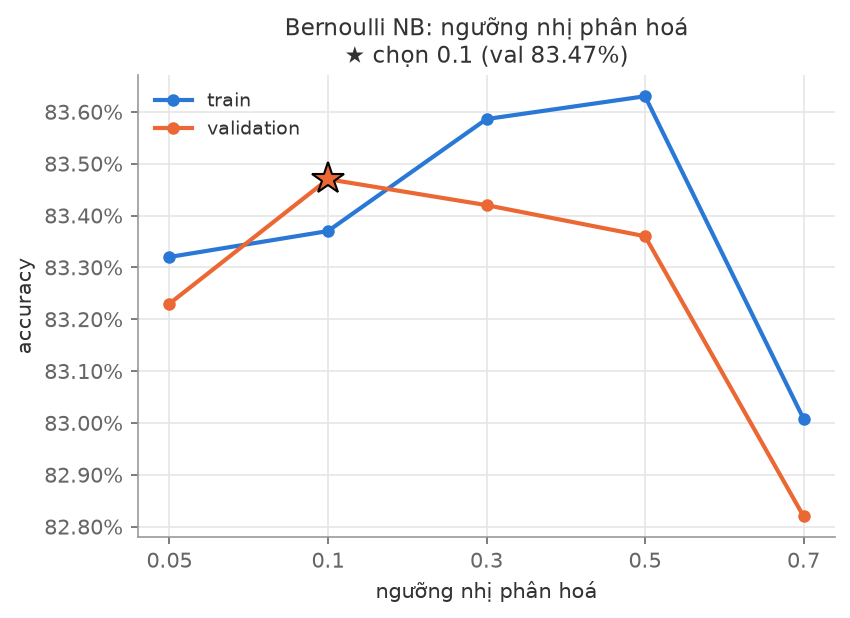
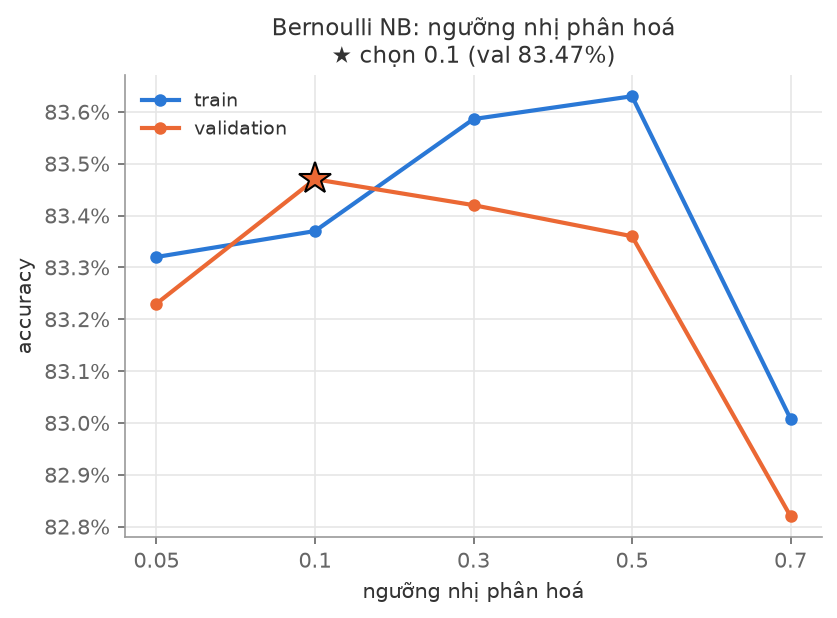
exp: thin log-scale tick labels and move epoch marker note into legend

diff --git a/src/plotting.py b/src/plotting.py
@@ -18,13 +18,16 @@ import os
 import matplotlib.pyplot as plt
 import numpy as np
 from matplotlib.colors import LinearSegmentedColormap
-from matplotlib.ticker import PercentFormatter
+from matplotlib.ticker import FuncFormatter, LogLocator, NullFormatter, PercentFormatter
 
 FIGURES_DIR = "results/figures"
 FIGSIZE = (6, 4)
 DPI = 150
 TRAIN_COLOR = "#2a78d6"  # xanh dương
 VAL_COLOR = "#eb6834"  # cam
+# Màu cho các đường không phải mô hình (cấu hình, hàm kích hoạt...), dùng theo thứ tự.
+# Tối đa 3 đường một hình: 3 màu này tách biệt từng đôi một, kể cả với người mù màu.
+LINE_COLORS = ["#2a78d6", "#eb6834", "#1baf7a"]
 INK = "#333333"  # màu chữ: xám đậm, đỡ gắt hơn đen tuyền
 # Thang một tông xanh, trắng -> xanh đậm, cho ma trận nhầm lẫn
 SEQUENTIAL_CMAP = LinearSegmentedColormap.from_list(
@@ -119,7 +122,7 @@ def plot_sweep(df, model_name, param_name, filename):
     )
     ax.set_xlabel(PARAM_LABELS.get(param_name, param_name))
     ax.set_ylabel("accuracy")
-    ax.yaxis.set_major_formatter(PercentFormatter(1.0))
+    ax.yaxis.set_major_formatter(PercentFormatter(1.0, decimals=1))
     ax.set_title(
         f"{MODEL_LABELS.get(model_name, model_name)}: {PARAM_LABELS.get(param_name, param_name)}\n"
         f"★ chọn {labels[best]} (val {best_val:.2%})",
@@ -173,7 +176,7 @@ def plot_model_comparison(test_df, filename):
     for i, value in enumerate(test_df["accuracy_mean"]):
         ax_acc.text(value + 0.003, i, f"{value:.2%}", va="center", fontsize=9)
     ax_acc.set_xlim(test_df["accuracy_mean"].min() - 0.05, 1.03)
-    ax_acc.xaxis.set_major_formatter(PercentFormatter(1.0))
+    ax_acc.xaxis.set_major_formatter(PercentFormatter(1.0, decimals=1))
     ax_acc.set_xlabel("test accuracy")
 
     ax_time.barh(y, test_df["fit_time_s_mean"], color=colors)
@@ -188,4 +191,91 @@ def plot_model_comparison(test_df, filename):
     for ax in (ax_acc, ax_time):
         ax.grid(axis="x")
     fig.suptitle("So sánh các mô hình trên tập test")
+    return save_figure(fig, filename)
+
+
+CURVE_PANELS = [
+    ("train_loss", "train loss"),
+    ("val_loss", "validation loss"),
+    ("val_acc", "validation accuracy"),
+]
+
+
+def plot_learning_curves(
+    curves, filename, title, group=None, colors=None, mark_epoch=None, log_loss=False
+):
+    """Learning curve: mỗi cột có trong bảng (train loss, val loss, val acc) là một ô.
+
+    curves: bảng dài, mỗi hàng là một epoch, có cột "epoch" và các cột trong CURVE_PANELS.
+    group: tên cột phân biệt các đường (cấu hình, mô hình, hàm kích hoạt); None = một đường.
+        Nhiều hàng cùng (nhóm, epoch) là nhiều seed: vẽ trung bình, dải mờ ± 1 độ lệch chuẩn.
+    colors: dict {giá trị nhóm: màu}; mặc định lấy LINE_COLORS theo thứ tự.
+    mark_epoch: số epoch, hoặc dict {giá trị nhóm: epoch}, vẽ nét đứt (epoch được chọn hoặc
+        epoch early stopping giữ lại).
+    log_loss: thang log cho các ô loss.
+    """
+    panels = [(col, label) for col, label in CURVE_PANELS if col in curves]
+    groups = [None] if group is None else list(dict.fromkeys(curves[group]))
+    fig, axes = plt.subplots(1, len(panels), figsize=(5 * len(panels), 4), squeeze=False)
+    axes = axes[0]
+
+    for k, name in enumerate(groups):
+        part = curves if name is None else curves[curves[group] == name]
+        color = colors[name] if colors else LINE_COLORS[k]
+        label = None if name is None else MODEL_LABELS.get(name, name)
+        epoch = mark_epoch.get(name) if isinstance(mark_epoch, dict) else mark_epoch
+        for ax, (col, _) in zip(axes, panels):
+            values = part.groupby("epoch")[col]
+            mean, std = values.mean(), values.std(ddof=1).fillna(0.0)
+            ax.plot(mean.index, mean, marker="o", markersize=3, color=color, label=label)
+            if values.size().max() > 1:
+                ax.fill_between(mean.index, mean - std, mean + std, color=color, alpha=0.2)
+            if epoch is not None:
+                # Chú thích nét đứt nằm trong legend của ô val acc, không ghi lên tiêu đề
+                mark_label = f"epoch được chọn: {epoch}" if col == "val_acc" else None
+                ax.axvline(epoch, linestyle="--", linewidth=1, color=color, label=mark_label)
+
+    for ax, (col, label) in zip(axes, panels):
+        ax.set_xlabel("epoch")
+        ax.set_ylabel(label)
+        ax.grid()
+        if col == "val_acc":
+            ax.yaxis.set_major_formatter(PercentFormatter(1.0, decimals=1))
+        elif log_loss:
+            ax.set_yscale("log")
+            # Nhãn chỉ ở các mốc 1, 2, 5 của mỗi bậc 10 (0.01, 0.02, 0.05, 0.1...), dạng số
+            # thường thay cho 4×10^-2; ghi nhãn ở mọi vạch thì chữ chồng lên nhau.
+            ax.yaxis.set_major_locator(LogLocator(base=10, subs=(1, 2, 5)))
+            ax.yaxis.set_major_formatter(FuncFormatter(lambda v, _: f"{v:g}"))
+            ax.yaxis.set_minor_formatter(NullFormatter())
+    if group is not None:
+        axes[0].legend(fontsize=9)
+    if mark_epoch is not None:
+        # Chỉ chú thích nét đứt; tên các đường đã có trong legend ô đầu
+        dashed = [line for line in axes[-1].get_lines() if line.get_linestyle() == "--"]
+        axes[-1].legend(handles=dashed, fontsize=9, loc="lower right")
+    fig.suptitle(title)
+    return save_figure(fig, filename)
+
+
+def plot_class_images(images, filename, title, colorbar_label, symmetric=False):
+    """Lưới 2x5 ảnh 28x28, một ảnh cho mỗi lớp 0-9.
+
+    symmetric=False: giá trị trong [0, 1], thang một tông xanh (xác suất).
+    symmetric=True: giá trị âm/dương quanh 0, thang hai màu đỏ/xanh, trắng ở 0 (trọng số).
+    """
+    images = np.asarray(images).reshape(-1, 28, 28)
+    if symmetric:
+        vmax = np.abs(images).max()
+        cmap, vmin = "RdBu_r", -vmax
+    else:
+        cmap, vmin, vmax = SEQUENTIAL_CMAP, 0, 1
+
+    fig, axes = plt.subplots(2, 5, figsize=(10, 4.4))
+    for c, (ax, image) in enumerate(zip(axes.flat, images)):
+        shown = ax.imshow(image, cmap=cmap, vmin=vmin, vmax=vmax)
+        ax.set_title(f"lớp {c}")
+        ax.axis("off")
+    fig.colorbar(shown, ax=axes, shrink=0.8, label=colorbar_label)
+    fig.suptitle(title)
     return save_figure(fig, filename)
